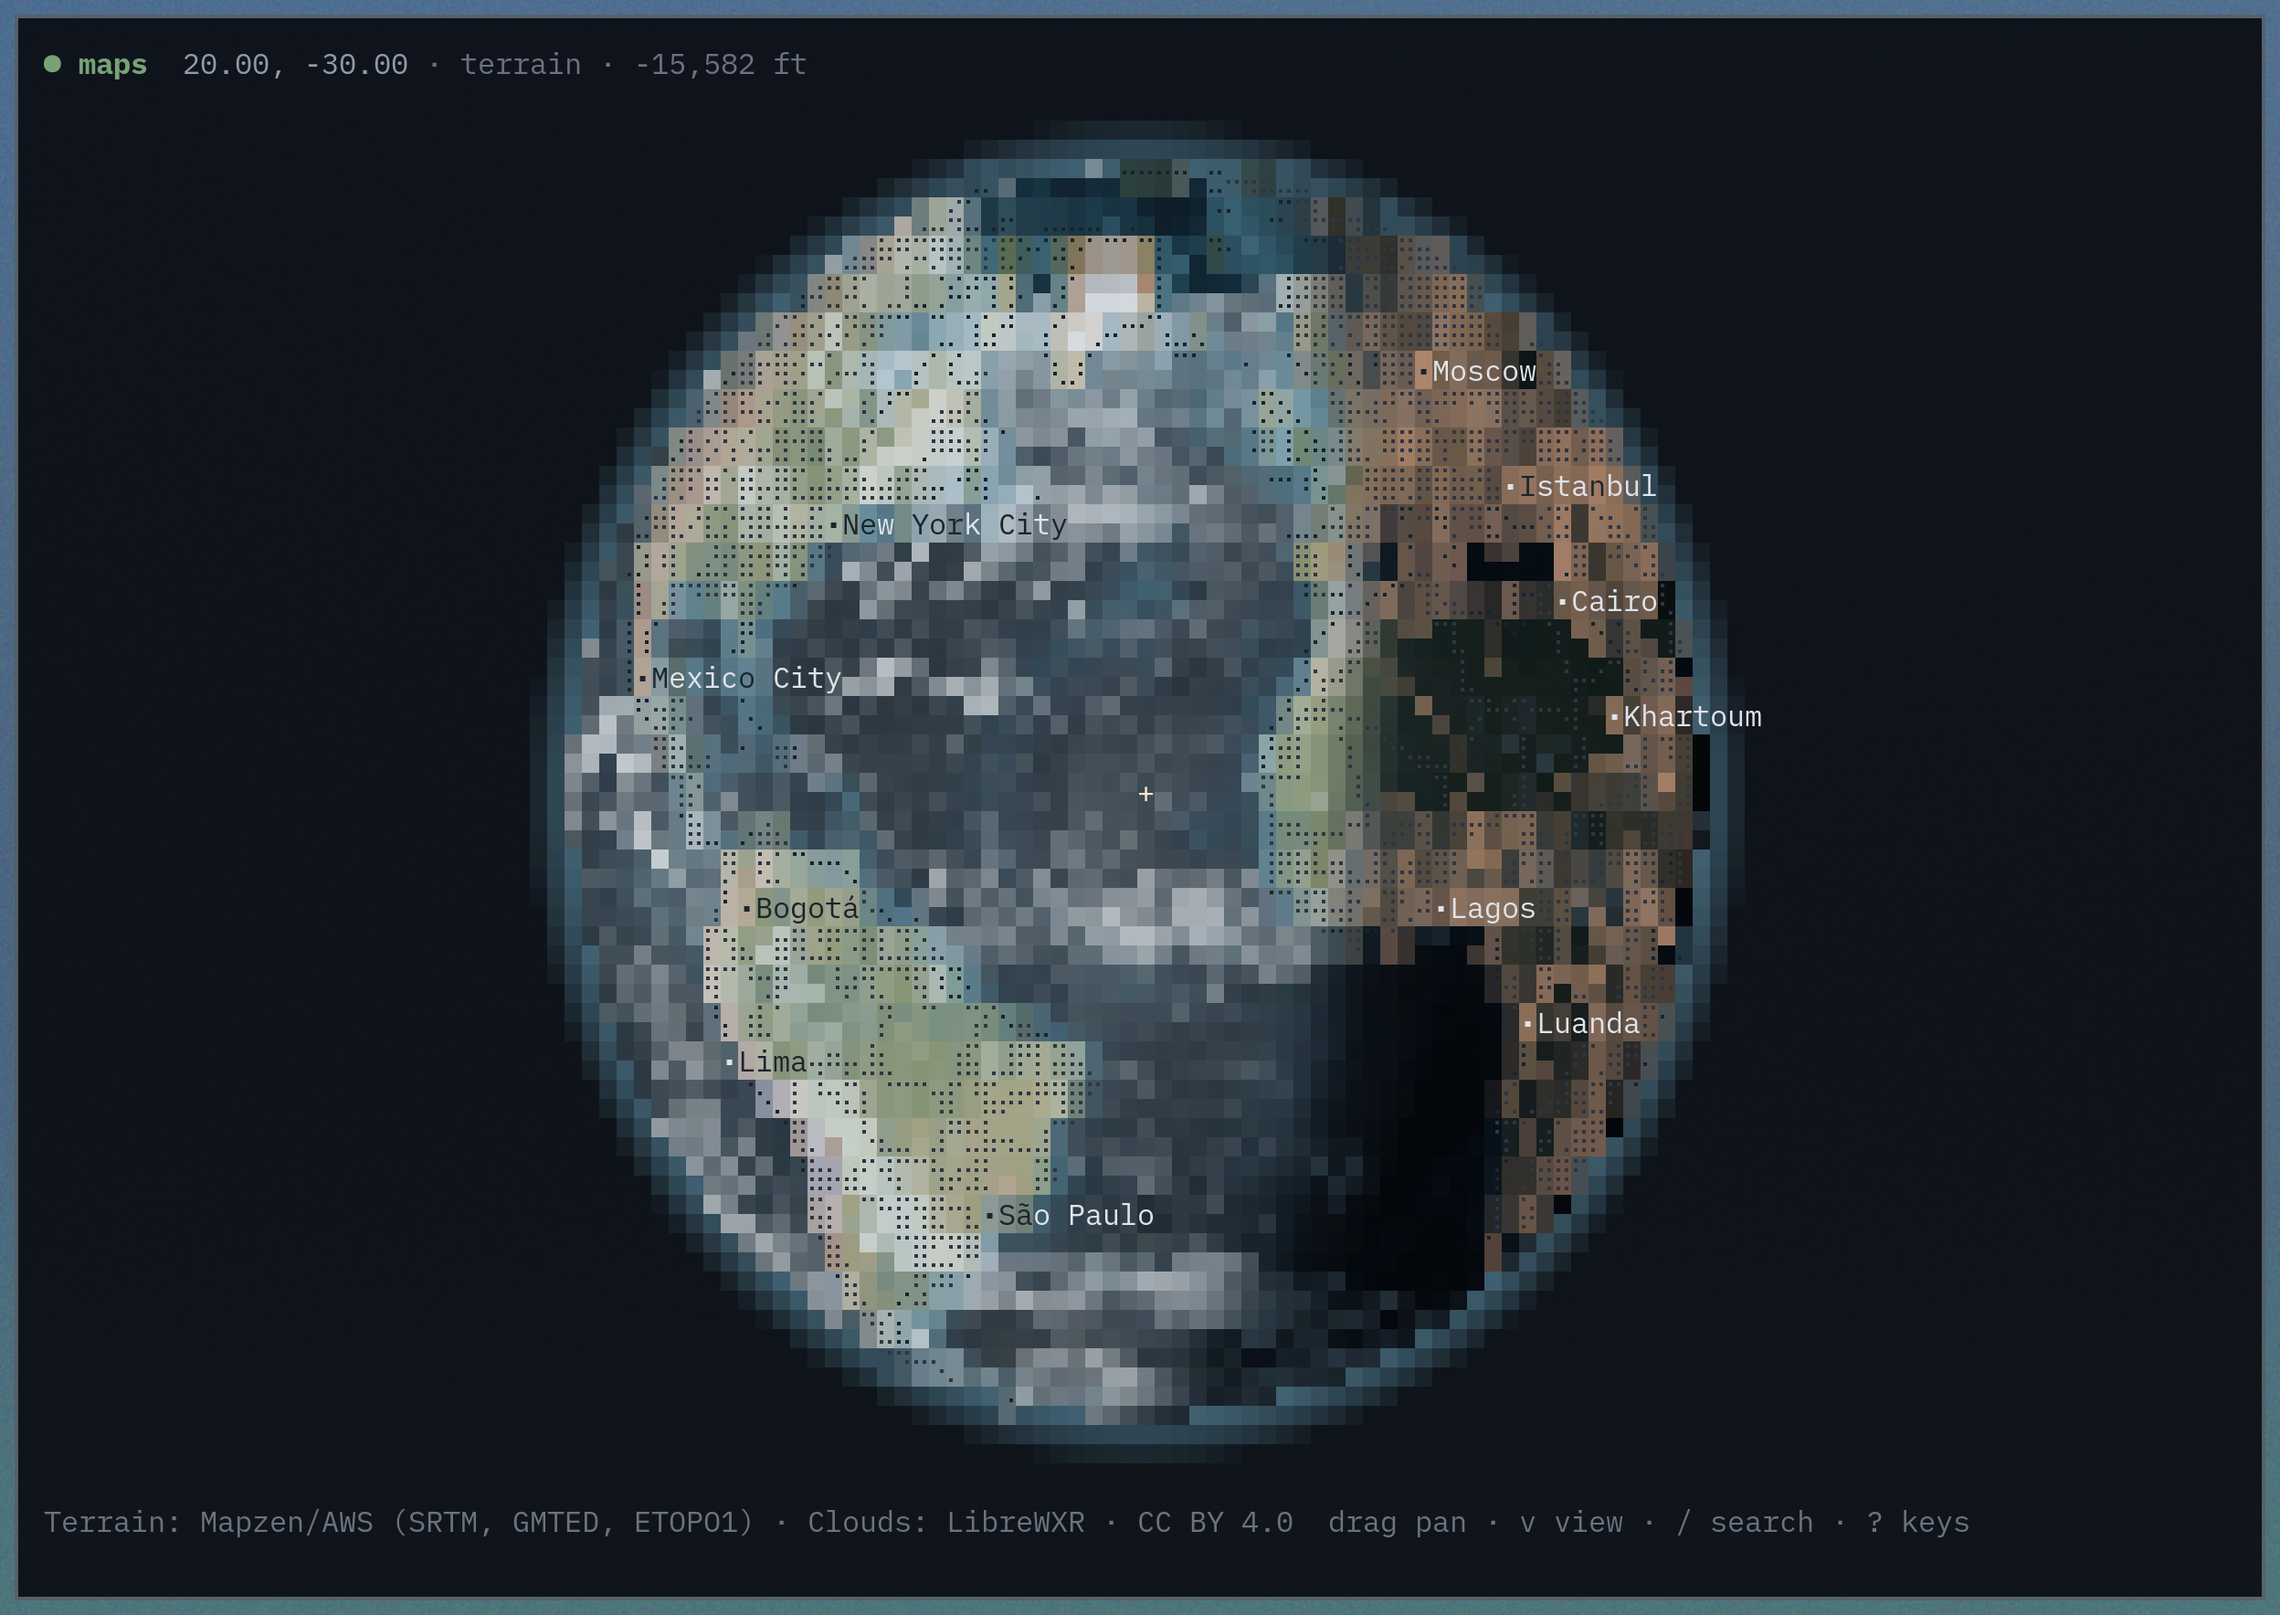
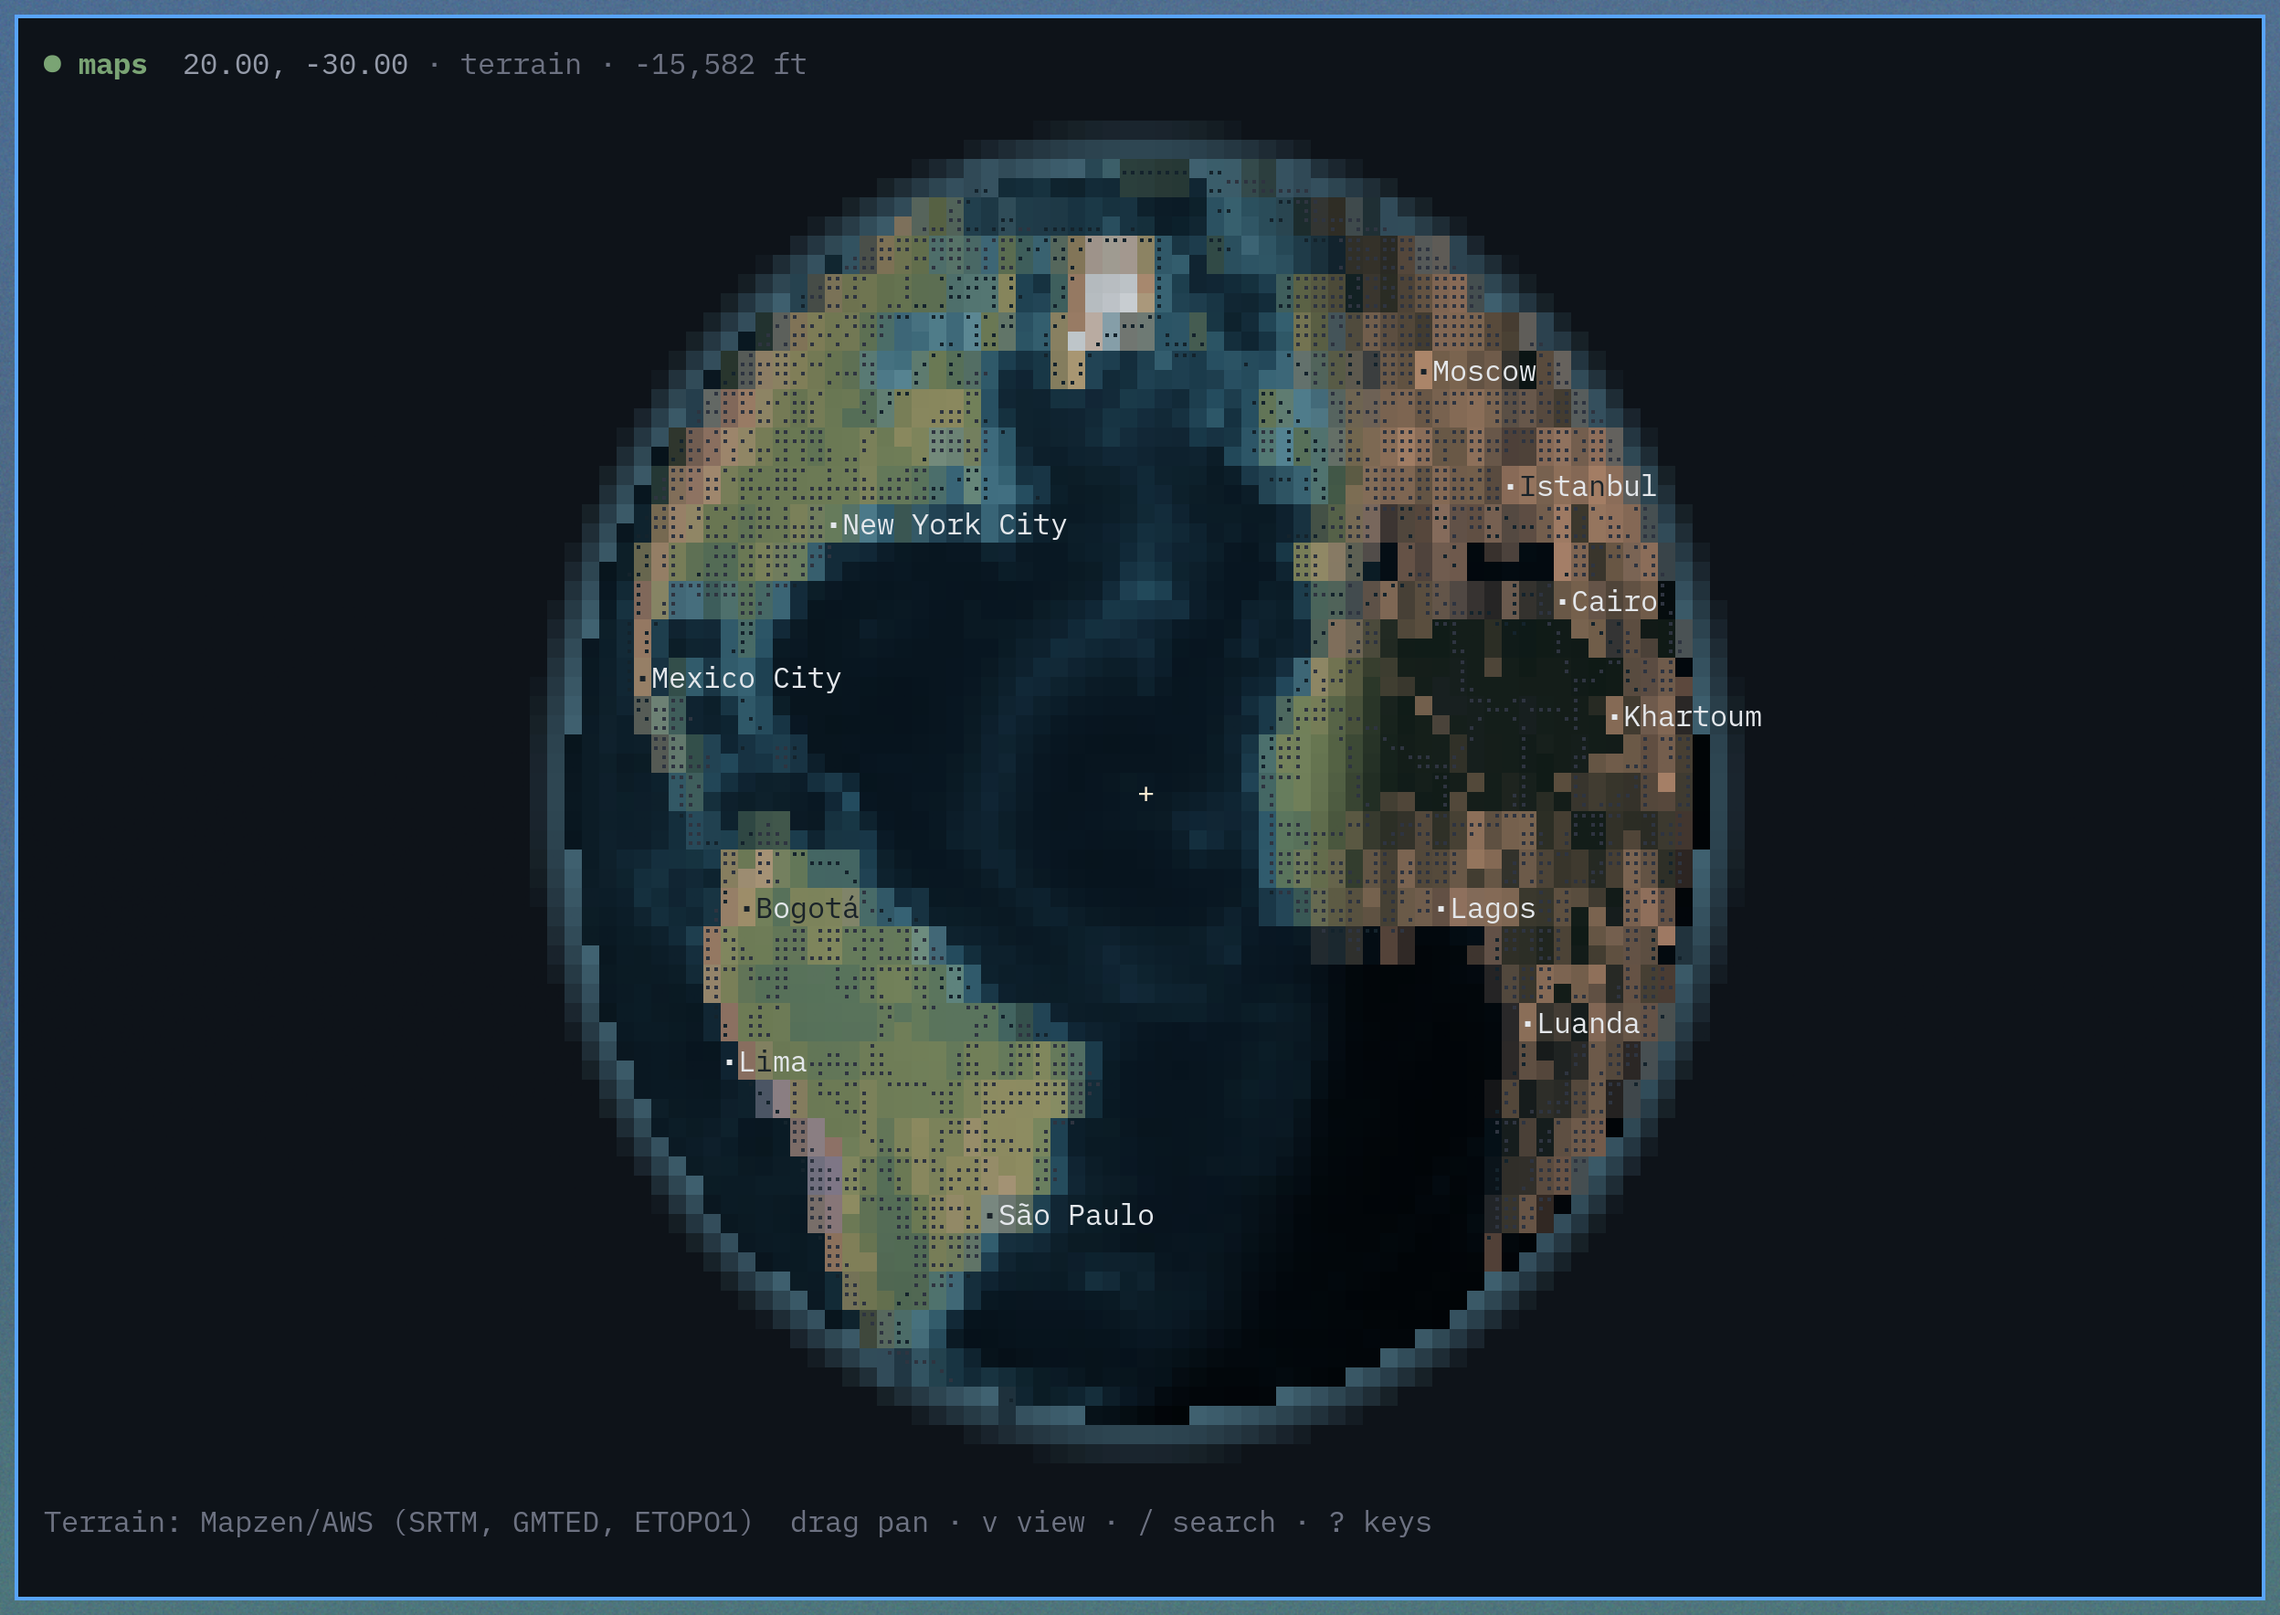
Gallery: the globe portrait sheds its clouds
Daylight alone reads instantly at gallery size; the cloud layer made a
first-glance reader work out what they were looking at.  The capture
target now opens the plain terrain planet and presses s once the
canvas is warm, keeping the live terminator and city lights.

diff --git a/screenshots/README.md b/screenshots/README.md
@@ -22,11 +22,12 @@ Weather, tides, radar, and maps use current public data. Sunshine and Moon use
 fixed local moments through `scripts/capture_moment.py`, keeping those frames
 repeatable at any time of day.
 
-The globe target is honestly unrepeatable by design: `maps --view now` renders
-the terminator, night city lights, and cloud cover as they are at capture time,
-so pick an hour when the terminator crosses the visible disk (mid-afternoon or
-late evening US Eastern works for the default mid-Atlantic centre) and read the
-frame back before committing.
+The globe target is honestly unrepeatable by design: it opens the terrain
+planet and presses `s`, so the frame carries the terminator and night city
+lights as they are at capture time — but not the clouds, which read as noise
+at gallery size. Pick an hour when the terminator crosses the visible disk
+(mid-afternoon or late evening US Eastern works for the default mid-Atlantic
+centre) and read the frame back before committing.
 
 The current hero is not from the script at all: it is a hand-composed
 whole-laptop-screen screenshot — weather, dusk sunshine, tides, and radar

diff --git a/README.md b/README.md
@@ -134,7 +134,7 @@ Terrain view turns global elevation into hillshade and a hypsometric ramp, from 
 
 Zoom all the way out and either view becomes an orthographic globe you can rotate by dragging — or set spinning with `r`. Two keys switch on the sky as it is right now: `s` shades the planet into actual daylight, with a creeping terminator and cities glowing on the night side, and `c` lays the current global cloud cover over it from live satellite imagery. `maps --view now` opens straight to the full picture.
 
-![the globe as it is right now: live daylight, the terminator, and this hour's clouds](https://raw.githubusercontent.com/ashuttl/linecast/main/screenshots/maps-globe.png)
+![the globe as it is right now: live daylight and the terminator](https://raw.githubusercontent.com/ashuttl/linecast/main/screenshots/maps-globe.png)
 
 Everything is a single key — `?` shows this list in the app:
 
